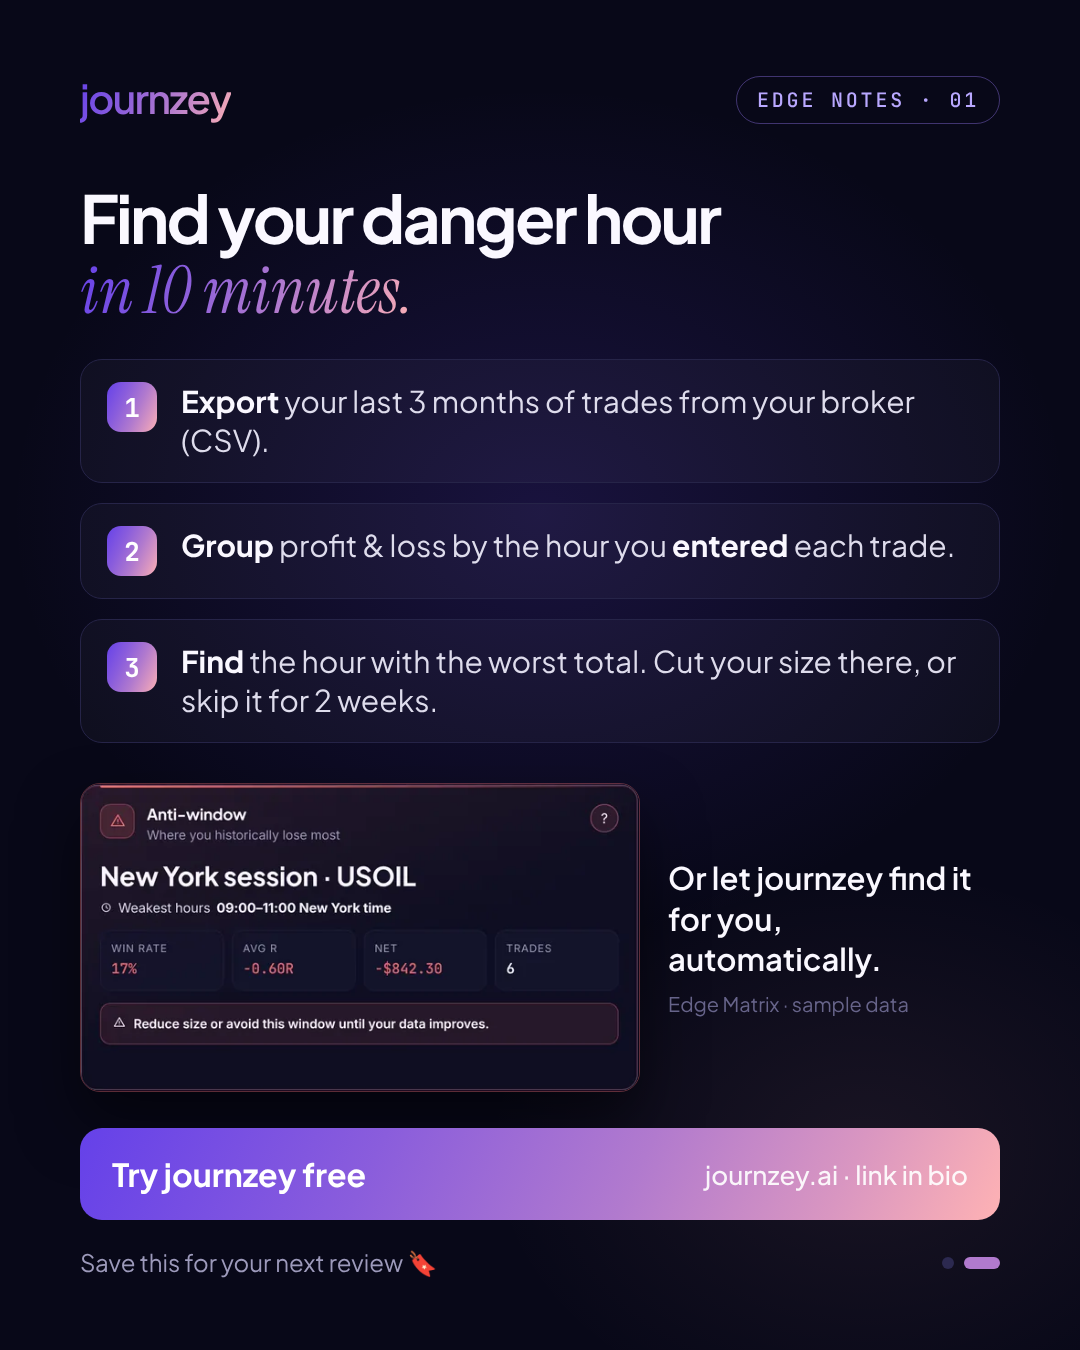
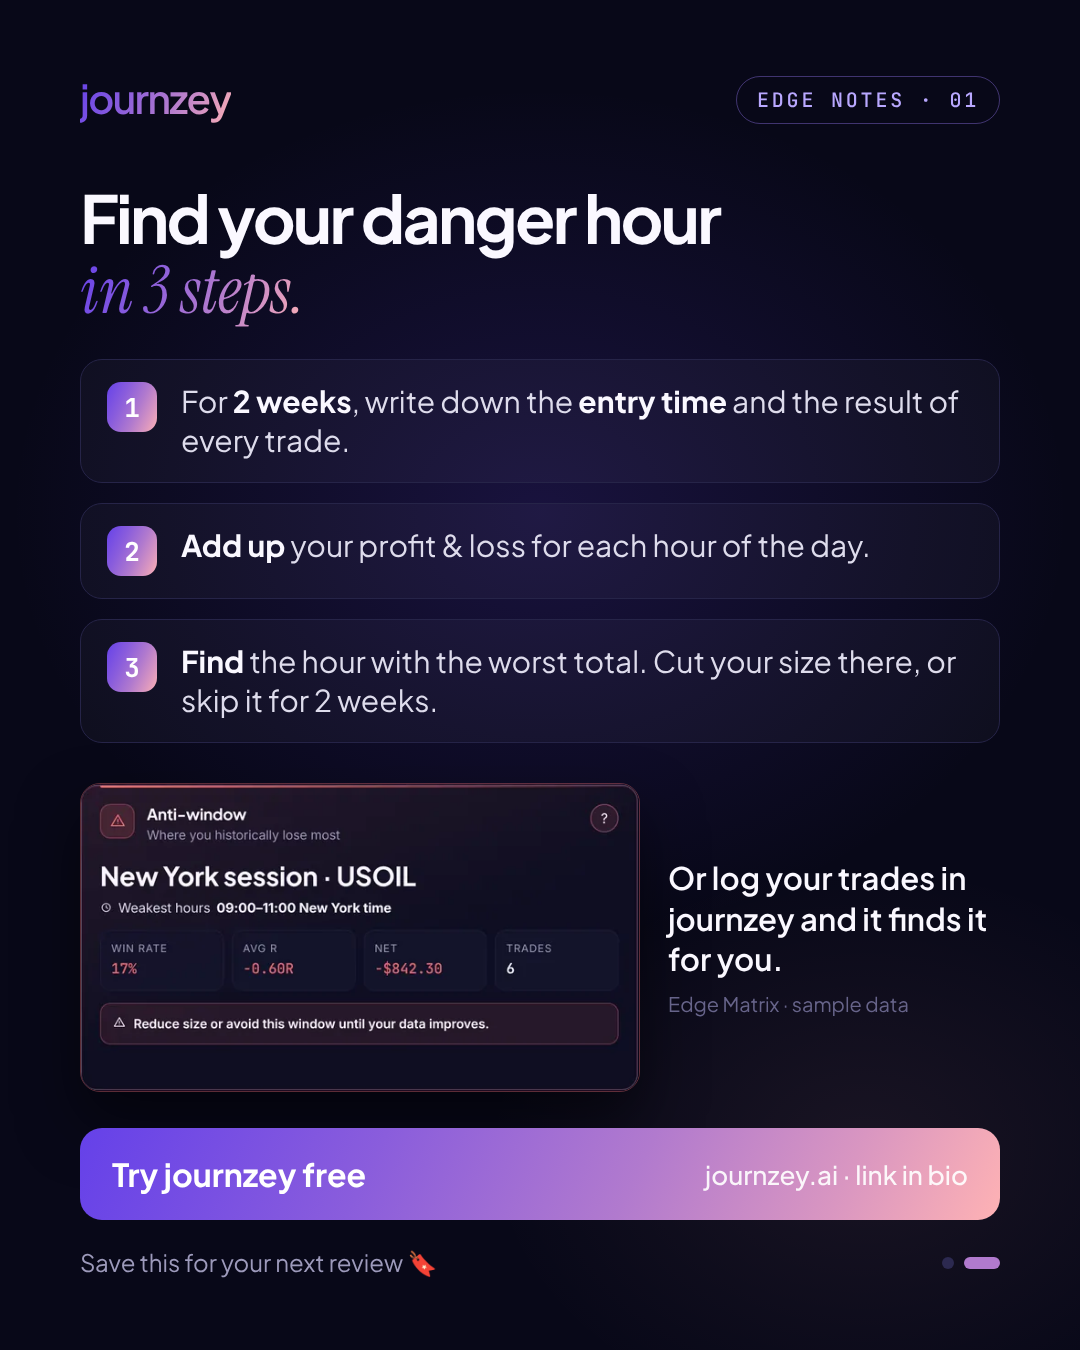
Edge Notes 01: manual method on page 2 instead of CSV import
Claude-Session: https://claude.ai/code/session_01MgL4Us7ksQsfohAV5KkAcm

diff --git a/docs/brand/instagram/edge-notes-template.html b/docs/brand/instagram/edge-notes-template.html
@@ -59,13 +59,13 @@ h2 { font-size: 66px; line-height: 1.04; letter-spacing: -.04em; color: var(--st
 </div>
 <div class="page" id="p2" style="display:none">
   <div class="top"><div class="word">journzey</div><div class="tag">EDGE NOTES · 01</div></div>
-  <h2>Find your danger hour<br><span class="serif grad">in 10 minutes.</span></h2>
+  <h2>Find your danger hour<br><span class="serif grad">in 3 steps.</span></h2>
   <ol class="steps">
-    <li><span class="n">1</span><span><b>Export</b> your last 3 months of trades from your broker (CSV).</span></li>
-    <li><span class="n">2</span><span><b>Group</b> profit &amp; loss by the hour you <b>entered</b> each trade.</span></li>
+    <li><span class="n">1</span><span>For <b>2 weeks</b>, write down the <b>entry time</b> and the result of every trade.</span></li>
+    <li><span class="n">2</span><span><b>Add up</b> your profit &amp; loss for each hour of the day.</span></li>
     <li><span class="n">3</span><span><b>Find</b> the hour with the worst total. Cut your size there, or skip it for 2 weeks.</span></li>
   </ol>
-  <div class="auto"><img src="antiwindow.png" alt=""><p>Or let journzey find it for you, automatically.<small>Edge Matrix · sample data</small></p></div>
+  <div class="auto"><img src="antiwindow.png" alt=""><p>Or log your trades in journzey and it finds it for you.<small>Edge Matrix · sample data</small></p></div>
   <div class="cta">Try journzey free <span>journzey.ai · link in bio</span></div>
   <div class="foot"><div>Save this for your next review 🔖</div><div class="dots"><i></i><i class="on"></i></div></div>
 </div>
